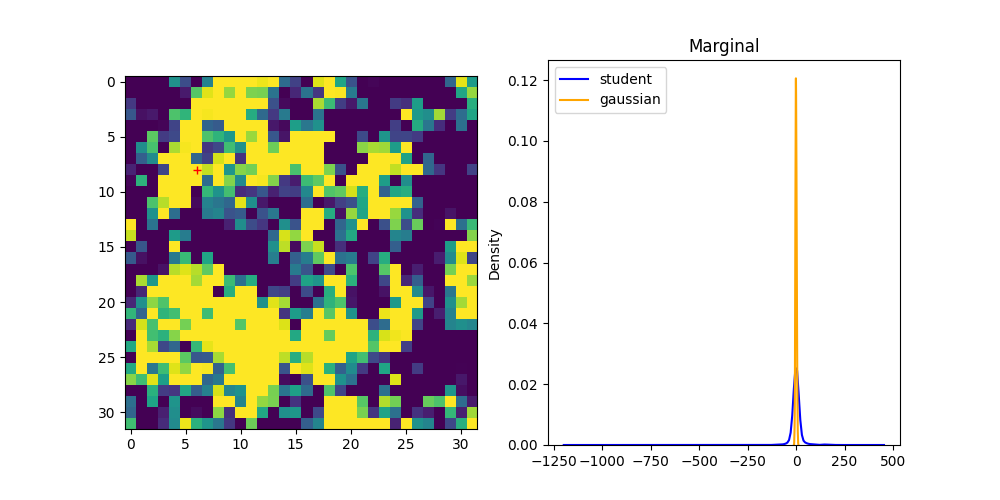
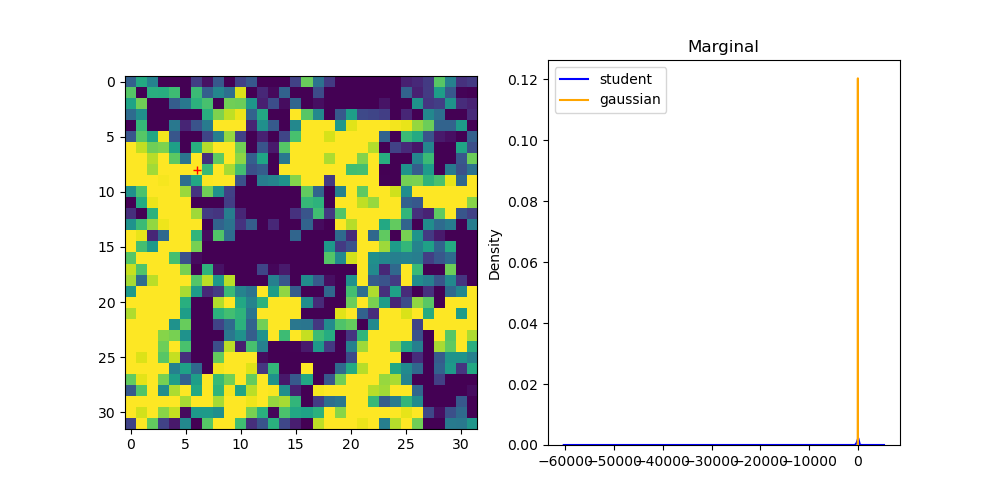
update local laptop to run student model 5 no boxcox

diff --git a/studentnugget/masked/unparameterized/train.py b/studentnugget/masked/unparameterized/train.py
@@ -125,7 +125,8 @@ def train_per_multiple_random_masks(config, data_draws, epochs_per_drawn_data,
     else:
         sde = sde_lib.VESDE(sigma_min=0.01, sigma_max=50, N = config.model.num_scales)
         sampling_eps = 1e-3
-
+    print("beta max", config.model.beta_max)
+    print("N", config.model.num_scales)
     # Build one-step training and evaluation functions
     optimize_fn = losses.optimization_manager(config)
     continuous = config.training.continuous
@@ -162,6 +163,7 @@ def train_per_multiple_random_masks(config, data_draws, epochs_per_drawn_data,
             while True:
                 try:
                     batch = get_next_batch(train_iterator, config)
+                    print(np.max(batch[0]))
                     loss = train_step_fn(state, batch)
                     train_losses_per_epoch.append(float(loss))
                 except StopIteration:
@@ -172,7 +174,7 @@ def train_per_multiple_random_masks(config, data_draws, epochs_per_drawn_data,
                 try:
                     batch = get_next_batch(eval_iterator, config)
                     eval_loss = eval_step_fn(state, batch)
-                    print(loss)
+                    print(eval_loss)
                     eval_losses_per_epoch.append(float(eval_loss))
                 except StopIteration:
                     eval_losses.append((sum(eval_losses_per_epoch)/len(eval_losses_per_epoch)))
@@ -371,78 +373,28 @@ vp_ncsnpp_configuration = vp_ncsnpp_config.get_config()
 ve_ncsnpp_configuration = ve_ncsnpp_config.get_config()
 vpconfig = vp_ncsnpp_configuration
 veconfig = ve_ncsnpp_configuration
-"""
-epochs_per_drawn_data = 20
-data_draws = 10
-number_of_replicates = 10000
-evaluation_number_of_replicates = 1000
-batch_size = 4
-eval_batch_size = 1000
-seed_value = 43234
-variance = .4
-lengthscale = 1.6
-score_model_path = "trained_score_models/vpsde/model1_beta_min_max_01_20_center_mask.pth"
-loss_path = "trained_score_models/vpsde/model1_beta_min_max_01_20_center_mask_loss.png"
 
-mask = torch.zeros((1,1,32,32))
-n = 32
-mask[:, int(n/4):int(n/4*3), int(n/4):int(n/4*3)] = 1
-mask.to("cuda:0")
-
-
-train_per_mask(vpconfig, data_draws, epochs_per_drawn_data, number_of_replicates,
-      evaluation_number_of_replicates, batch_size, eval_batch_size, seed_value,
-          variance, lengthscale, mask, score_model_path, loss_path)
-"""
 
 data_draws = 10
 epochs_per_data_draws = 20
 number_of_random_replicates = 10000
 number_of_eval_random_replicates = 256
 #smaller p means less ones which means more observed values
-random_missingness_percentages = [0,.0025, .005]
+random_missingness_percentages = [0,.0025, .005, .01, .1, .25, .5]
 batch_size = 512
 eval_batch_size = 256
 variance = .4
 lengthscale = 1.6
-df = 2
-buffer = 500
-boxcoxfile = "trained_score_models/vpsde/model4_boxcoxminmean.npy"
-lmbda = .8
-score_model_path = "trained_score_models/vpsde/model4_boxcox_lmbda8_variance_.4_lengthscale_1.6_df_2_beta_min_max_01_20_1000_random0005_masks.pth"
-loss_path = "trained_score_models/vpsde/model4_boxcox_lmbda8_variance_.4_lengthscale_1.6_df_2_beta_min_max_01_20_1000_random0005_masks_loss.png"
+df = 3
+score_model_path = "trained_score_models/vpsde/model5_variance_.4_lengthscale_1.6_df_3_beta_min_max_01_20_1000_random050_masks.pth"
+loss_path = "trained_score_models/vpsde/model5_variance_.4_lengthscale_1.6_df_3_beta_min_max_01_20_1000_random050_masks_loss.png"
 torch.cuda.empty_cache()
-train_per_multiple_random_masks_box(vpconfig, data_draws, epochs_per_data_draws,
+train_per_multiple_random_masks(vpconfig, data_draws, epochs_per_data_draws,
                              random_missingness_percentages,
                              number_of_random_replicates,
                              number_of_eval_random_replicates, df,
                              variance, lengthscale, batch_size,
-                             eval_batch_size, score_model_path, loss_path,
-                             buffer, boxcoxfile, lmbda)
+                             eval_batch_size, score_model_path, loss_path)
                             
 
-"""
-data_draws = 20
-epochs_per_data_draws = 20
-number_of_random_replicates_per_percentage = 5000
-number_of_block_replicates_per_mask = 500
-number_of_eval_random_replicates_per_percentage = 50
-number_of_eval_block_replicates_per_mask = 50
-number_of_eval_random_replicates_per_percentage = 50
-random_missingness_percentages = [.8,.9]
-weighted_upper_half_mask_percentages = [.1, .25]
-weighted_lower_half_mask_percentages = [.75,.9]
-batch_size = 512
-eval_batch_size = 16
-seed_values = [(int(np.random.randint(0, 100000)), int(np.random.randint(0, 100000))) for i in range(0, data_draws)]
-score_model_path = "trained_score_models/vpsde/model7_beta_min_max_01_25_250_random8090_block_masks.pth"
-loss_path = "trained_score_models/vpsde/model7_beta_min_max_01_25_250_random8090_block_masks_loss.png"
-variance = .4
-lengthscale = 1.6
 
-train_per_multiple_random_and_block_masks(vpconfig, data_draws, epochs_per_data_draws, random_missingness_percentages,
-                                          weighted_lower_half_mask_percentages, weighted_upper_half_mask_percentages,
-                                          number_of_random_replicates_per_percentage, number_of_block_replicates_per_mask,
-                                          number_of_eval_random_replicates_per_percentage, number_of_eval_block_replicates_per_mask,
-                                          seed_values, variance, lengthscale, batch_size, eval_batch_size, score_model_path, loss_path)
-"""

diff --git a/brown_resnick/conditional_simulation/visualize_true_samples.py b/brown_resnick/conditional_simulation/visualize_true_samples.py
@@ -1,10 +1,24 @@
 import numpy as np
 import matplotlib.pyplot as plt
 
+n = 32
 refimg_folder = "data/ref_img2"
-ref_img = np.load((refimg_folder + "/ref_img.npy"))
+ref_img = (np.load((refimg_folder + "/ref_img.npy"))).reshape((1,n**2))
 mask = np.load((refimg_folder + "/mask01.npy"))
-conditional_samples = np.load((refimg_folder + "/conditional_simulations_100.npy"))
+l = (np.sum(mask))
+m = (n**2)-l
+k = 100
+observed_indices = np.argwhere(mask==1)
+missing_indices = (np.argwhere(mask==0))[:,0]
+conditional_samples = (np.load((refimg_folder + "/conditional_simulations_100.npy"))).reshape((k,m))
+conditional_full_vectors = np.zeros((k,(n**2)))
+conditional_full_vectors[:,missing_indices] = conditional_samples
+print(ref_img[:,observed_indices])
+print(ref_img[:,observed_indices].shape)
+print((np.repeat(ref_img[:,observed_indices], repeats = k, axis = 0)).shape)
+#conditional_full_vectors[:,observed_indices] = np.repeat(ref_img[observed_indices], 
+print(ref_img.shape)
+mask = mask.reshape((n,n))
 
 def log_transformation(images):
 
@@ -37,6 +51,7 @@ def visualize_mask_field(image, n, mask, figname):
     #logimage = log_transformation(image)
     ax.imshow(image.reshape((n,n)), vmin = 0, vmax = 10, alpha = mask.astype(float).reshape((n,n)))
     plt.savefig(figname)
+
 """
 figname = (refimg_folder + "/logref_img.png")
 n = 32
@@ -53,6 +68,3 @@ for i in range(0, 100, 10):
     figname = "data/ref_img2/conditional_log_sample_" + str(i) + ".png"
     visualize_log_field(conditional_samples[i,:,:,:], n, figname)
 """
-n = 32
-observed_indices = (mask==1).reshape((n**2))
-print(conditional_samples[:,observed_indices])

diff --git a/studentnugget/masked/unparameterized/evaluation/marginal_and_bivariate_densities/produce_unconditional_marginal_and_bivariate_densities.py b/studentnugget/masked/unparameterized/evaluation/marginal_and_bivariate_densities/produce_unconditional_marginal_and_bivariate_densities.py
@@ -179,15 +179,16 @@ minX = -10
 maxX = 10
 minY = -10
 maxY = 10
-variance = .2
+variance = .4
 lengthscale = 1.6
-number_of_replicates = 1000
+number_of_replicates = 5000
 missing_index = 200
-df = 2
+df = 3
 seed_value = np.random.randint(0, 100000, 1)[0]
-figname = "student_t_variance_.2_lengthscale_1.6_df_2_vs_gp_marginal_density.png"
+figname = "student_t_variance_.4_lengthscale_1.6_df_3_vs_gp_marginal_density.png"
 produce_t_vs_normal_marginal_density(minX, maxX, minY, maxY, n, variance, lengthscale, df,
                                      seed_value, number_of_replicates, missing_index, figname)
+
 
 """"
 for i in range(0, 25):

diff --git a/studentnugget/masked/unparameterized/configs/default_configs.py b/studentnugget/masked/unparameterized/configs/default_configs.py
@@ -52,9 +52,9 @@ def get_default_configs():
   config.model = model = ml_collections.ConfigDict()
   model.sigma_min = 0.01
   model.sigma_max = 50
-  model.num_scales = 250
+  model.num_scales = 1000
   model.beta_min = 0.1
-  model.beta_max = 25.
+  model.beta_max = 20.
   model.dropout = 0.1
   model.embedding_type = 'fourier'
 
